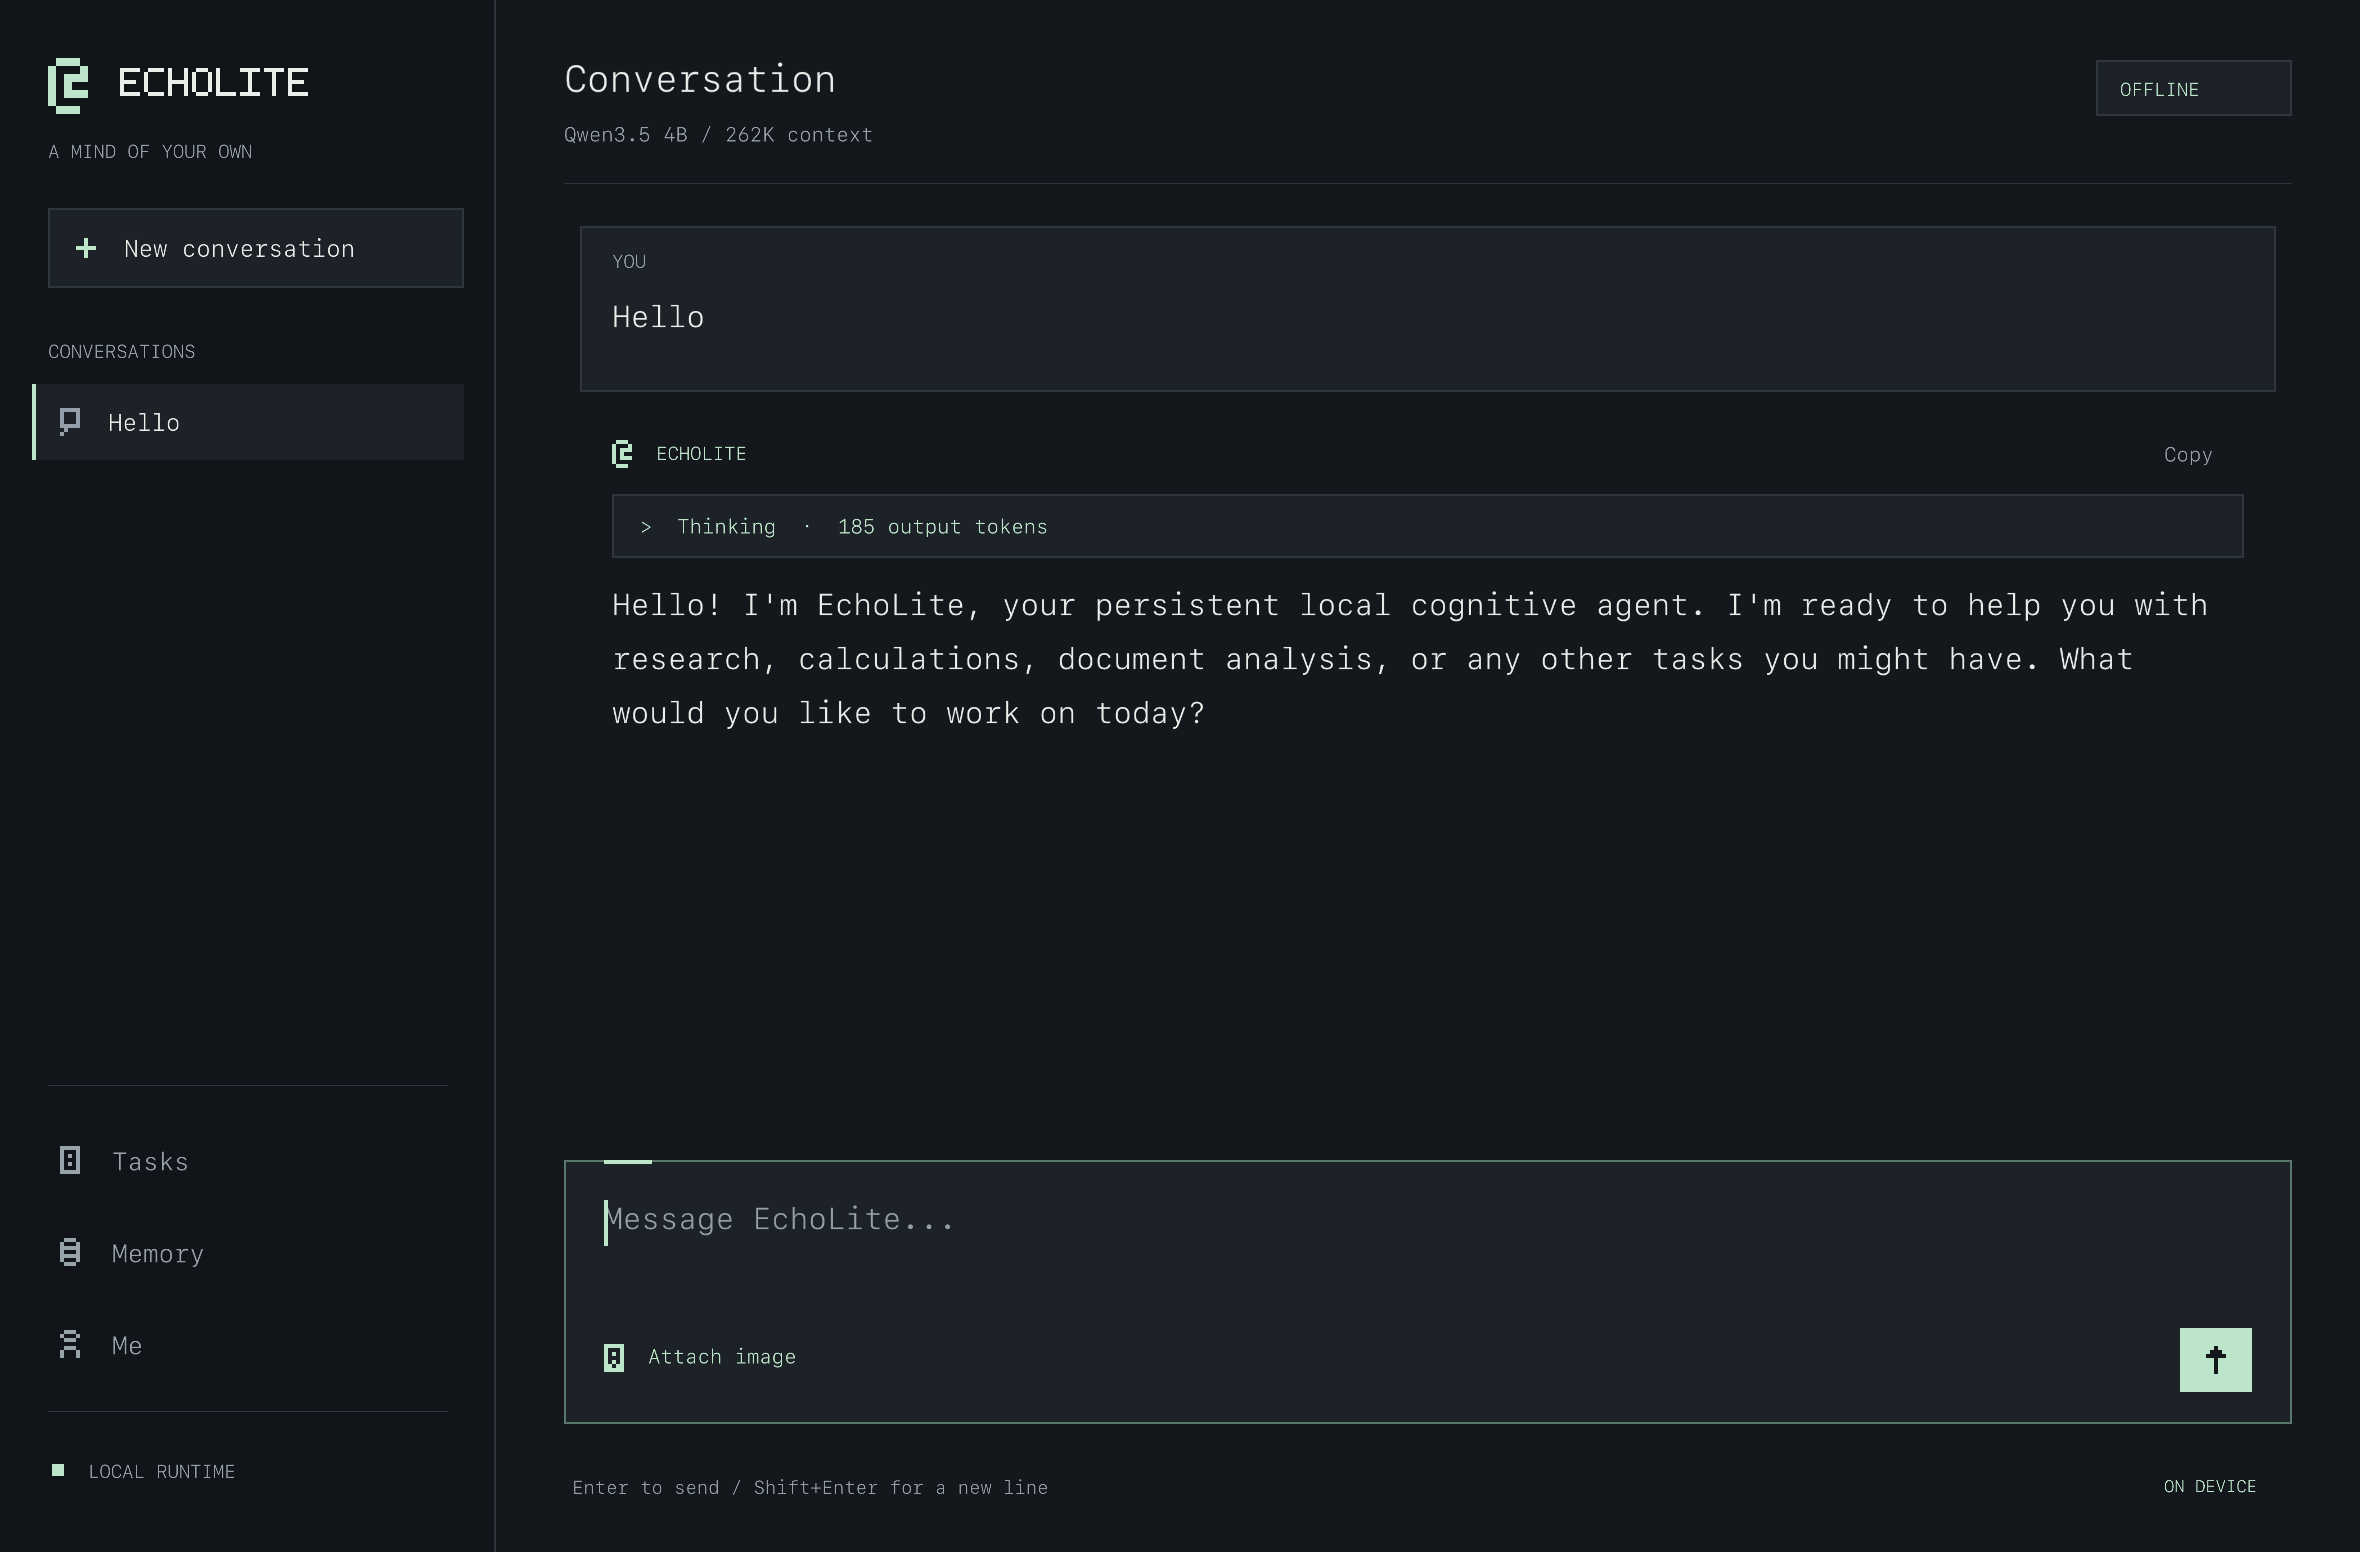
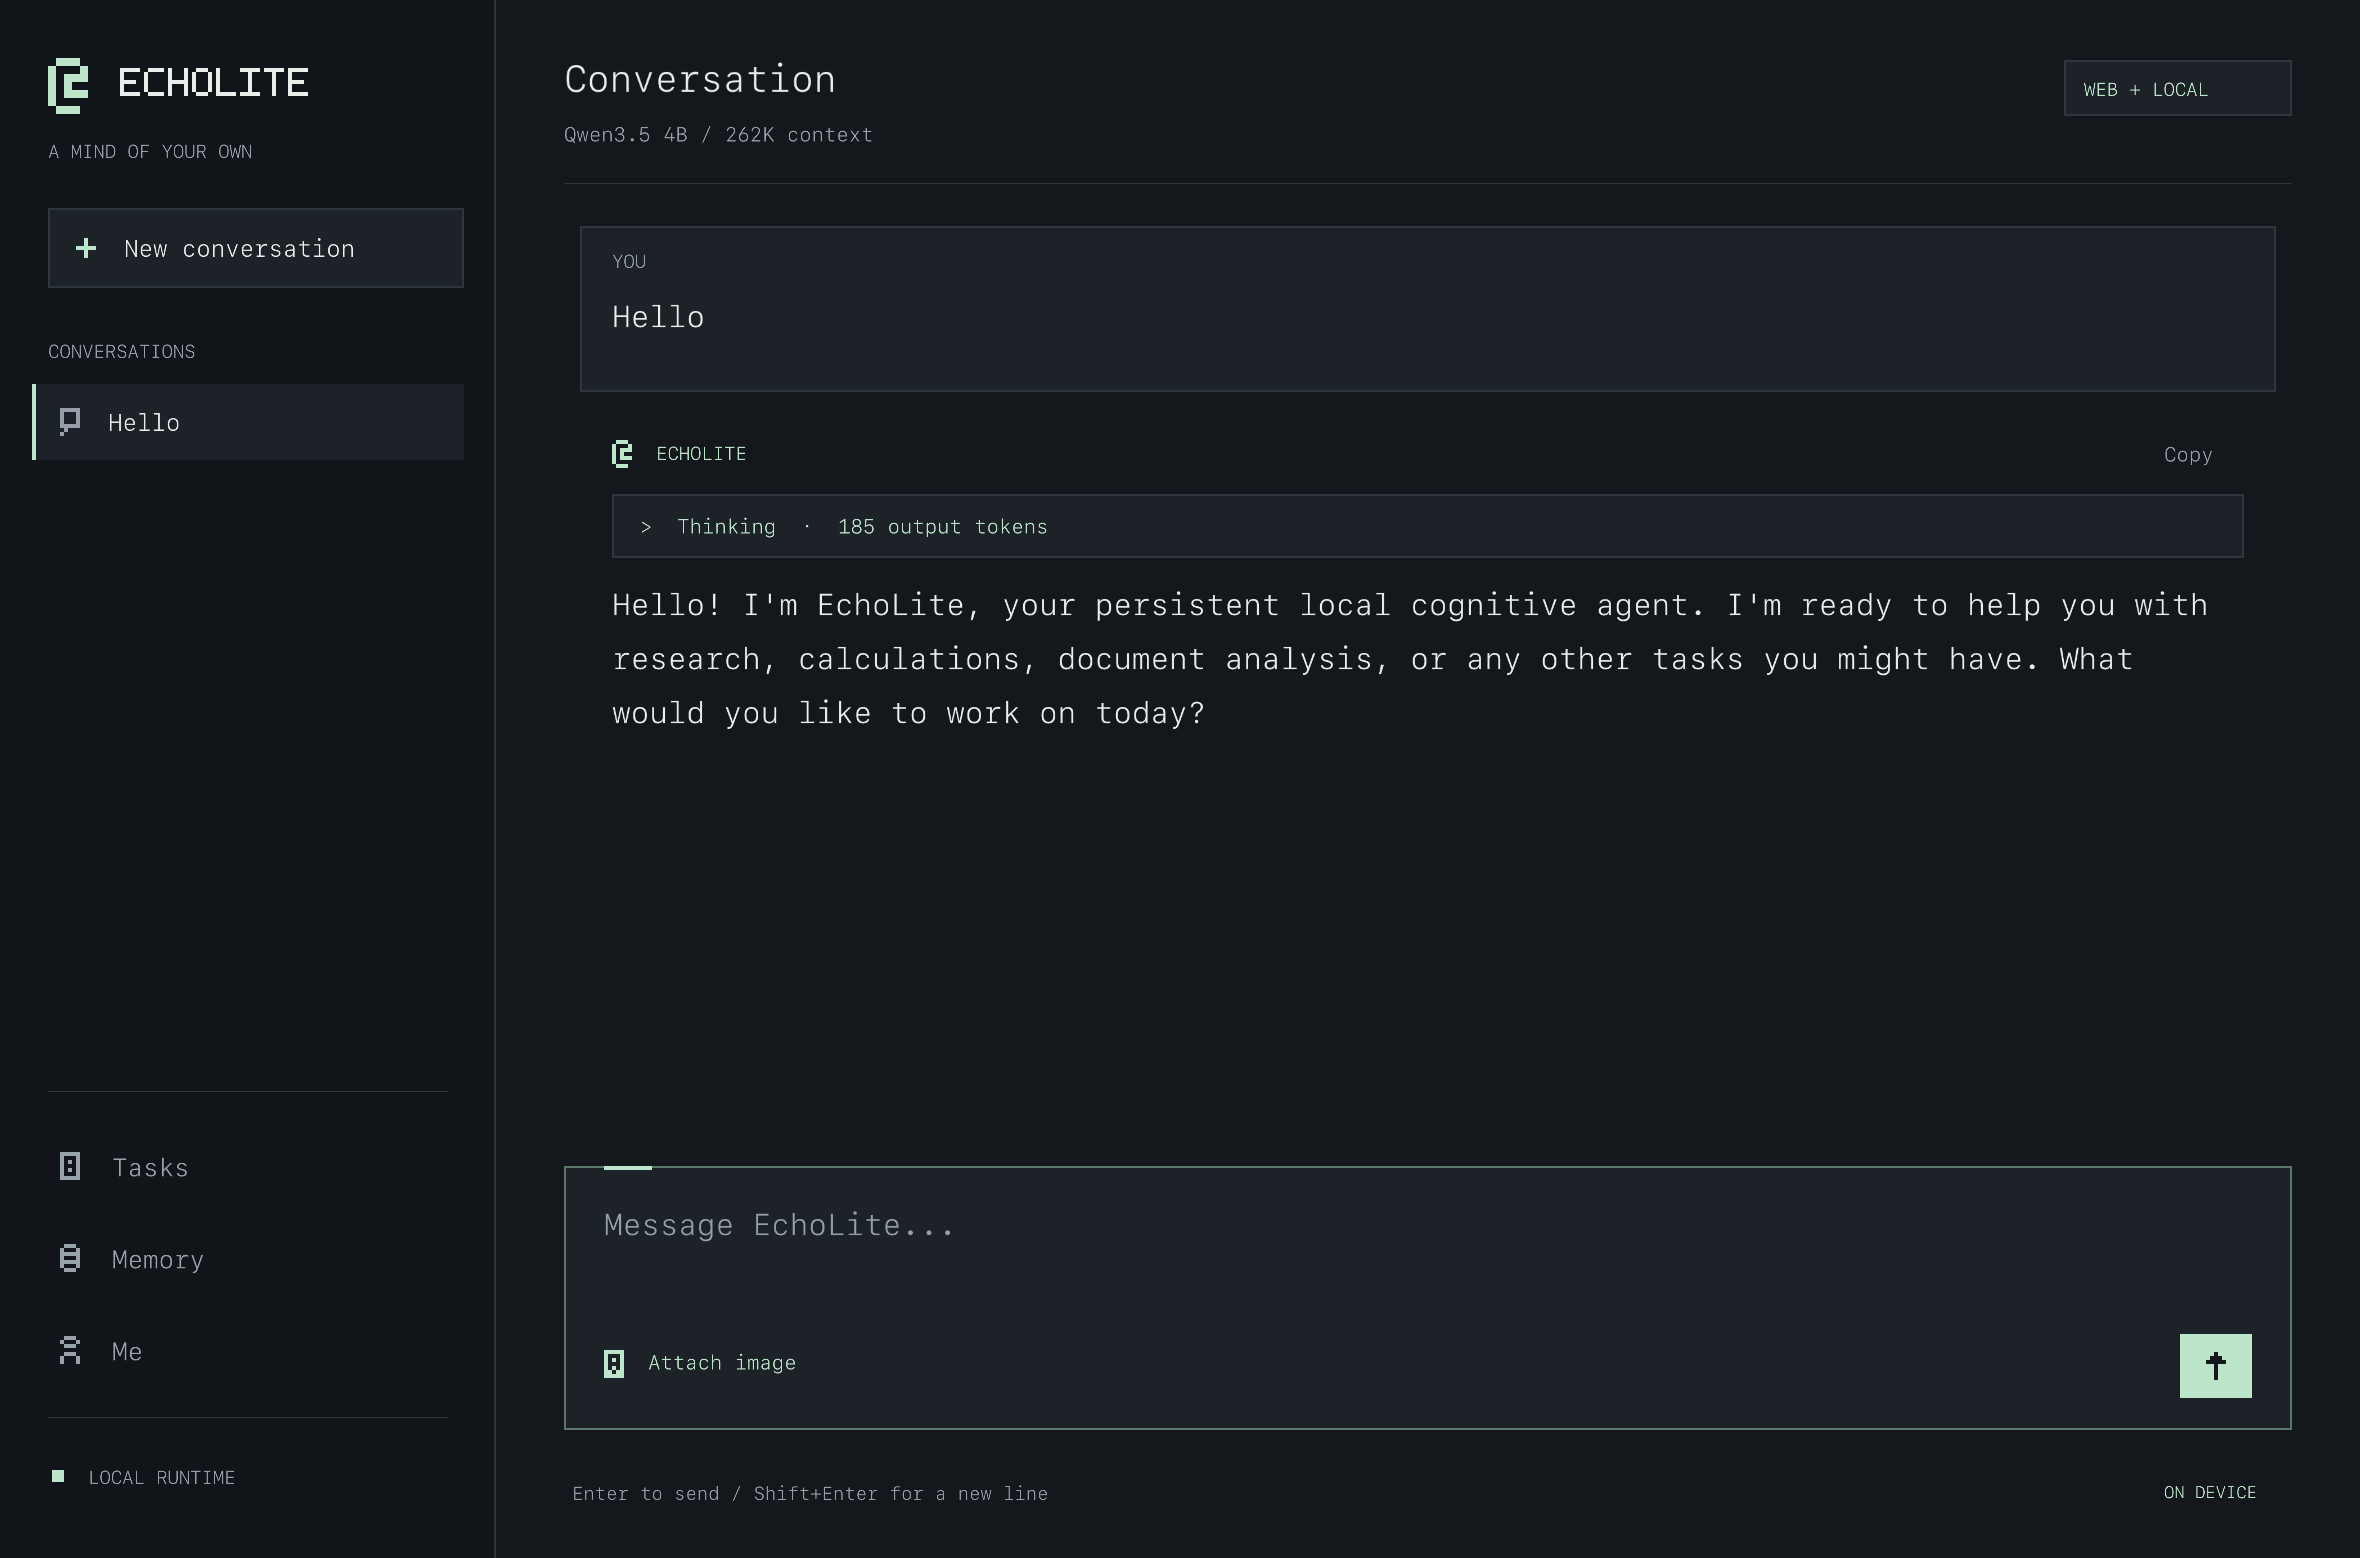
Enable automatic web access with persistent offline fallback

diff --git a/README.md b/README.md
@@ -42,7 +42,7 @@ The ambition is a locally hosted agent with continuity and room to revise its ow
 - **Knowledge:** installed Wikipedia archive, dictionary and an exact-rational calculator.
 - **Documents and images:** bounded text/file reads, PDF and DOCX extraction, image attachments and local vision.
 - **Action:** file operations, literal-argument process execution, coding/build workflows, Git and saved process output.
-- **Connected work:** web reads and managed Safari sessions when Connected mode and the required macOS permissions are enabled.
+- **Connected work:** web reads and managed Safari sessions when a connection and the required macOS permissions are available.
 - **Continuity:** session search, timelines, provenance, note correction, consolidation, forgetting, tasks and scheduling.
 
 Tools are exposed as needed. Their receipts record what happened; a proposed command or a model's confident answer is not treated as evidence that work succeeded.
@@ -99,14 +99,7 @@ For a fresh checkout, start with the [setup guide](docs/SETUP.md). It lists the 
 ./echolite
 ```
 
-Offline is the default launch mode. Connected mode is an explicit setting:
-
-```sh
-./echolite network-mode connected
-./echolite
-```
-
-Offline mode restricts direct outbound network traffic from the launched application and child commands; it is not a machine-wide firewall. Existing source snapshots retain their dates. Native process and browser tools still operate with the permissions granted on the host.
+Web and browser tools are available automatically. EchoLite uses its persistent cache where appropriate, attempts live requests when needed, and falls back to saved sources and local references when online access fails. Local generation, recall, memory and reference tools require no internet once provisioned. Cached fallbacks retain their original dates; a failed request does not disable later online attempts. Host permissions still apply to browser and system tools.
 
 ## Help shape it
 

diff --git a/docs/STATUS.md b/docs/STATUS.md
@@ -48,3 +48,11 @@ A retained full-context experiment processed **262,112 prompt tokens plus a 32-t
 ### Source presentation
 
 Consulted references appear in a collapsed Sources panel with readable titles, publisher labels, available snapshot dates, original-source links and Copy actions. New responses no longer receive a hardcoded URL appendix. Existing matching appendices are cleaned for display without rewriting saved history. The panel lists consulted references, not sentence-level support judgments. Original online pages may differ from the local snapshot used to answer. Focused validation passed 20 source-presentation/opening checks and 57 response-protocol checks.
+
+### Automatic connectivity
+
+Web and browser tools no longer require a mode switch. Existing offline settings are ignored, and the normal launcher no longer imposes an outbound-network sandbox on EchoLite or its child tools. This leaves macOS and browser permissions in place. Local inference, embeddings, memory, dictionary and installed Wikipedia remain independent of internet access.
+
+Web requests reuse eligible cached content, attempt retrieval when needed, and fall back to saved pages on failure. Receipts expose the attempted request, failure, fallback and staleness without inventing a new validation time. Each later refresh may recover online automatically; an unreachable site does not establish that the whole machine is offline. Validation includes real HTTPS retrieval, test-process network denial with saved-page recovery, and successful retrieval after restoring access.
+
+The automatic-connectivity change passed 95 focused checks. Two actual local-model conversations verified live web retrieval and saved-page fallback plus calculator use under test-process network denial. Managed Safari navigation/read/close also completed without a mode switch.

diff --git a/docs/SETUP.md b/docs/SETUP.md
@@ -68,15 +68,11 @@ The bootstrap installs the EP build entry point and compiles the native applicat
 
 Local services bind to loopback: generation `8400`, embeddings `8401`, Wikipedia `8402`, and the optional managed Safari driver `8410`. The runtime verifies existing services before reusing them. It does not terminate arbitrary processes occupying these ports.
 
-## Network mode
+## Automatic connectivity
 
-```sh
-./echolite network-mode          # inspect the stored selection
-./echolite network-mode offline
-./echolite network-mode connected
-```
+There is no manual mode switch. Web and browser tools are enabled at launch. Requests use eligible persistent cache entries or attempt online retrieval; failed requests fall back to retained snapshots when available, with stale dates and retrieval failures disclosed. With no cached page, the agent can use installed Wikipedia, dictionary, calculations and memory. Local model and embedding services remain on this machine.
 
-Close and reopen the UI after changing the mode. Offline restricts direct outbound traffic from the application and its child processes, while allowing loopback services. This does not disable the machine's network or constrain unrelated external apps. Connected web/browser work requires the relevant host permissions; Safari automation needs Safari's remote-automation setting.
+Legacy `network-mode` files and `ECHOLITE_NETWORK_MODE` values no longer disable web access. The old CLI command only explains this migration. Restart an older running app once after upgrading to remove its inherited network restriction. Safari automation still requires Safari's remote-automation setting; connectivity recovery does not change OS permissions.
 
 ## Check the local state
 
